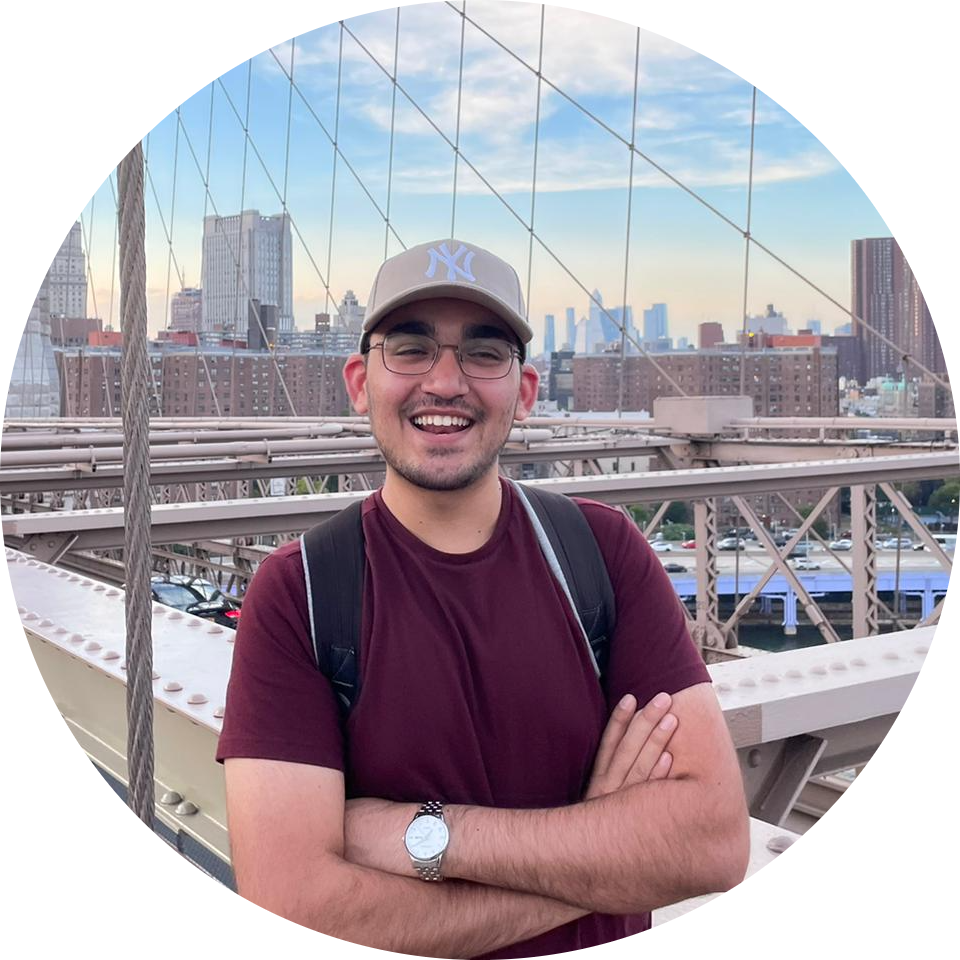
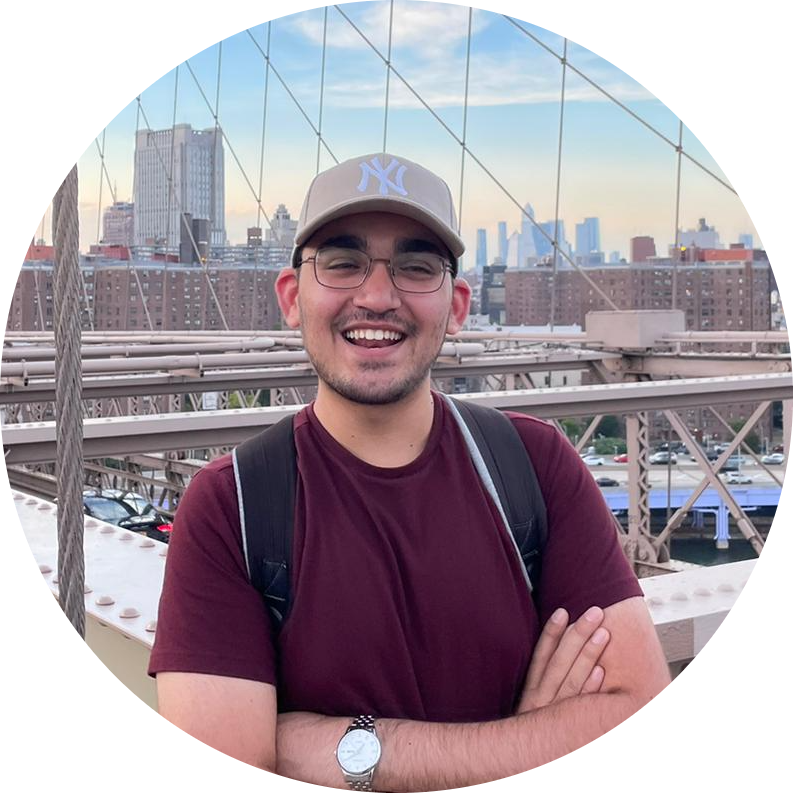
updated

diff --git a/_layouts/default.html b/_layouts/default.html
@@ -17,7 +17,7 @@
       <header>
         <h1><a style="color: green" href="{{ "/" | absolute_url }}">{{ site.title | default: site.github.repository_name }}</a></h1>
 
-        <img src="/assets/dp.jpeg" alt="Logo" />
+        <img src="/assets/dp.png" alt="Logo" />
 
         <!-- <p>{{ site.description | default: site.github.project_tagline }}</p> -->
 
